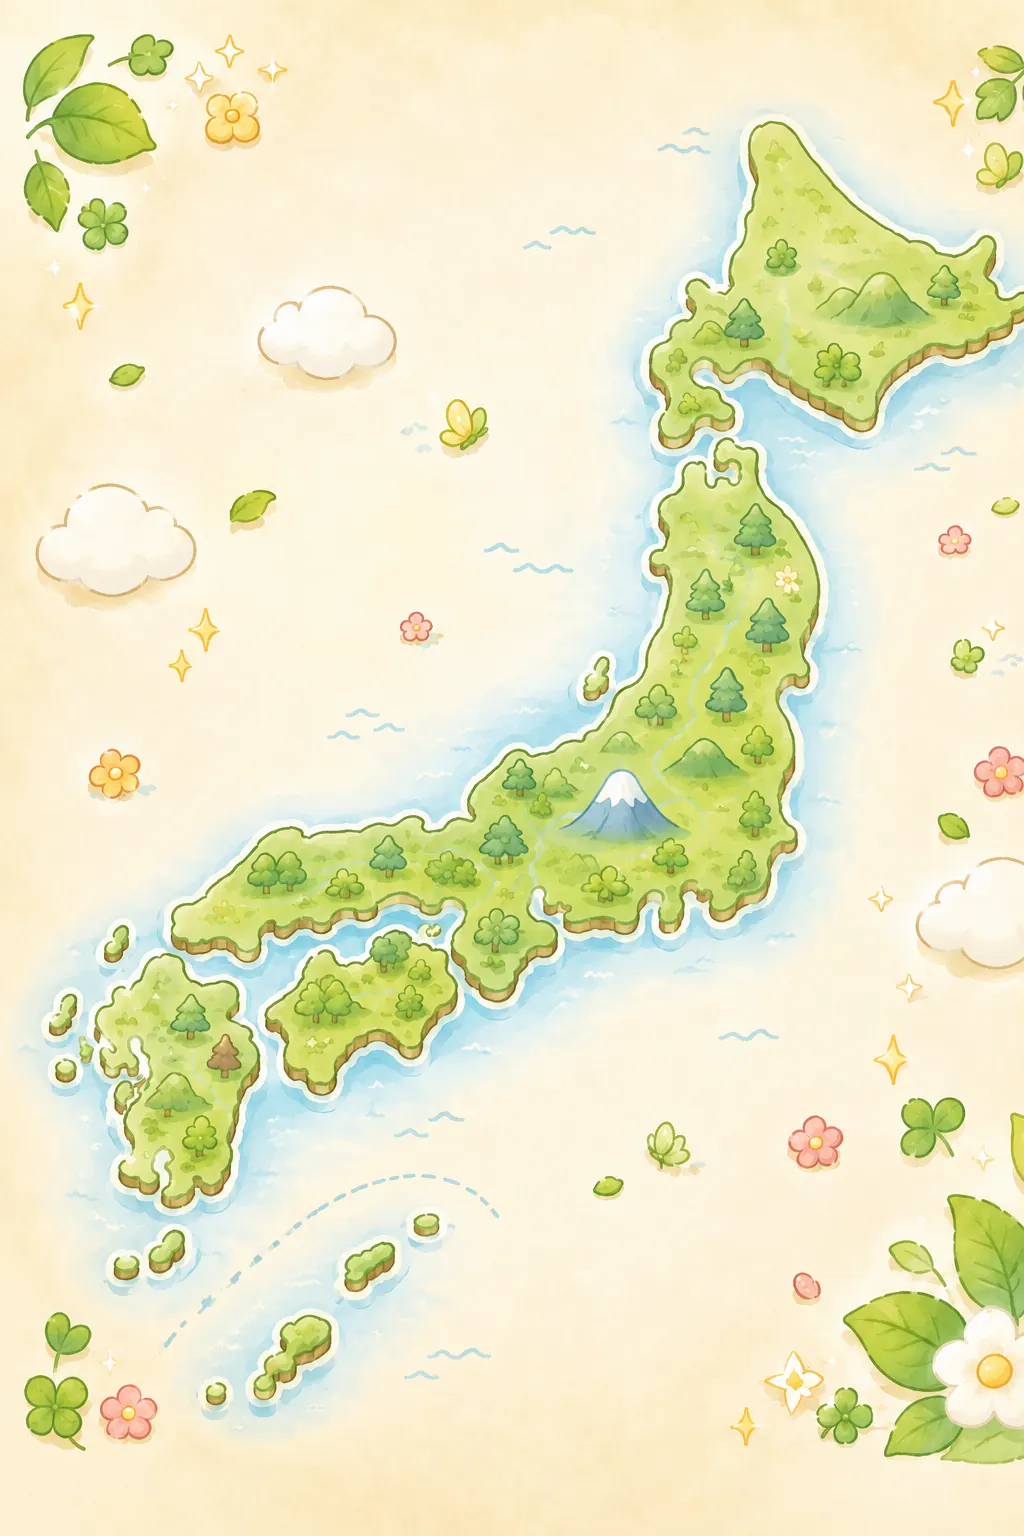
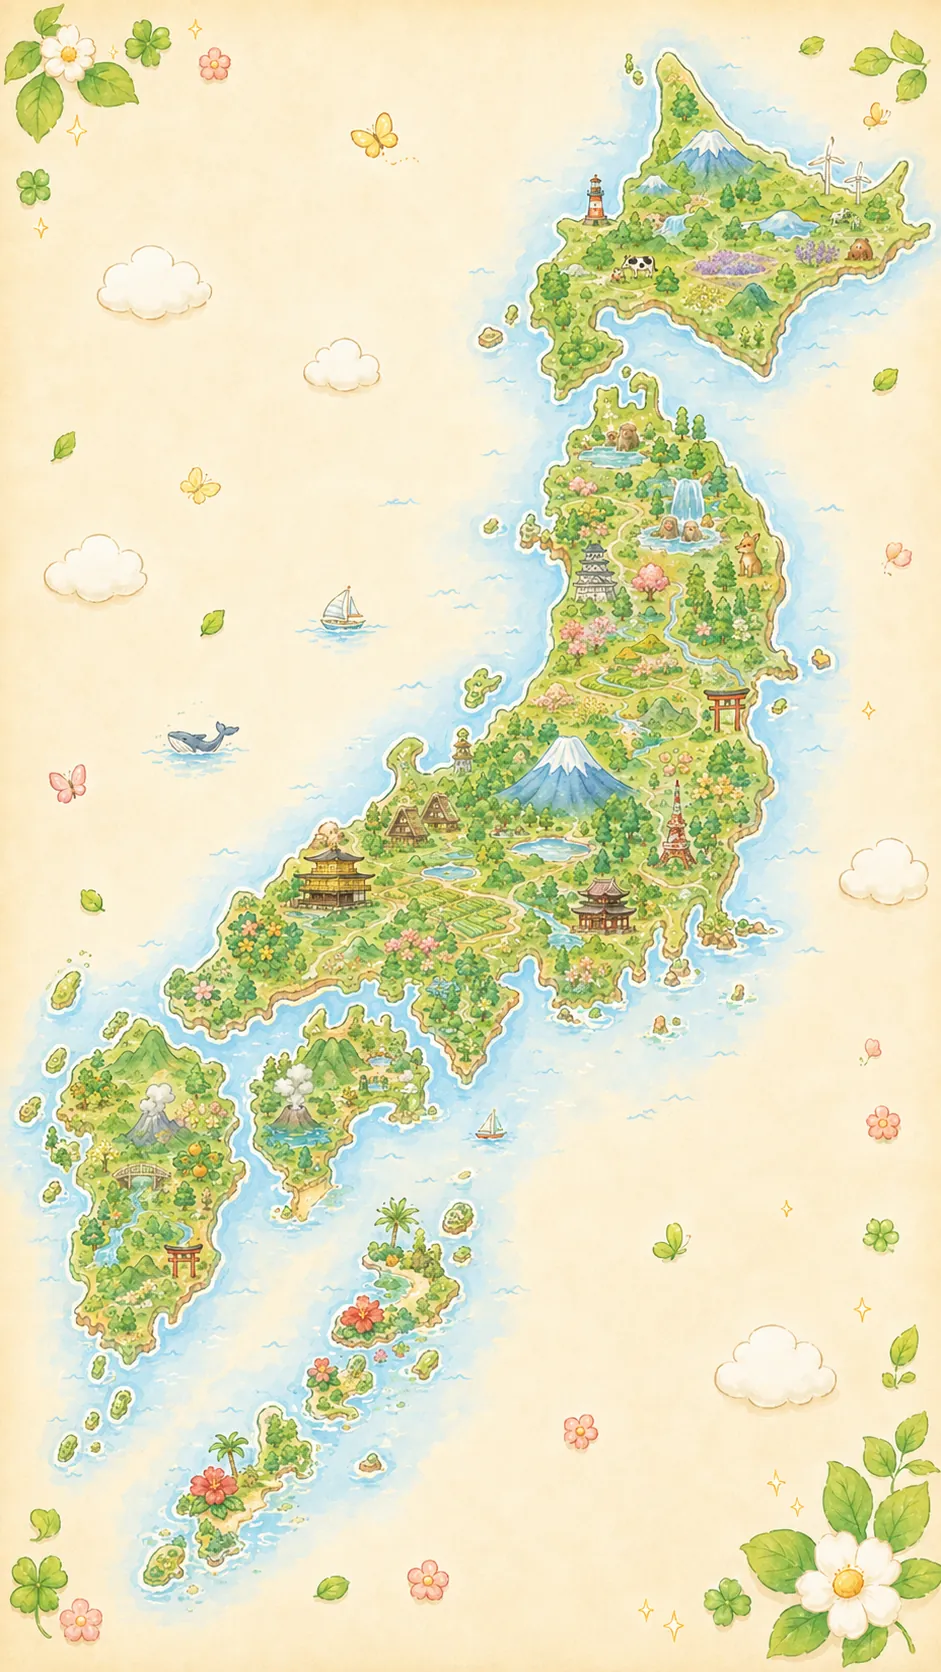
おもいでマップの 日本地図を あたらしい えに（v136）
・いただいた 水彩(すいさい)の 日本地図(にほんちず)に さしかえ
・海岸線(かいがんせん)が しっかり かかれて いる ので、ピンの いちを
  やり直(なお)した。やりかた：
  - みどりの りく と あおい うみ を コンピューターに 見(み)わけさせて
  - 宗谷岬・納沙布岬・大間崎・能登の先・犬吠埼・潮岬・下関・室戸岬・
    足摺岬・佐多岬・奄美大島・沖縄本島 の 12か所(しょ)の はしっこを
    じどうで はからせ、東京タワーの えも くわえて 13の め じるしに した
  - ぜんたいを あわせる 式(しき)＋め じるしの まわりを なめらかに 直(なお)す
    のは これまで どおり

たしかめた こと
・札幌 函館 青森 秋田 仙台 新潟 富山 金沢 長野 名古屋 静岡 東京 宇都宮
  京都 大阪 奈良 鳥取 岡山 広島 松山 高知 福岡 大分 熊本 長崎 宮崎
  鹿児島 那覇 の 28の まちを うって、27が 陸(りく)の 上(うえ)、
  のこり1つ（長野）も 富士山の えの 上(うえ)で 陸(りく)
  ぜんぶ 正(ただ)しい 地方(ちほう)に のった
・ズーム／ドラッグ／ピン／ふつうの ちずとの きりかえ、ぜんぶ 動(うご)いた

Claude-Session: https://claude.ai/code/session_0117rxThQ1NyrT7KgAK1ereN

diff --git a/js/app.js b/js/app.js
@@ -2,7 +2,7 @@
 (() => {
   "use strict";
 
-  const APP_VERSION = "v135";
+  const APP_VERSION = "v136";
 
   const $ = (s, e = document) => e.querySelector(s);
   const $$ = (s, e = document) => [...e.querySelectorAll(s)];
@@ -3973,23 +3973,26 @@
      ・そのうえで め じるしの まわりだけ ずれを なおす（きょりの ぎゃく数(すう)で なめらかに）
      という 2だんがまえで ピンの いちを 出(だ)して いる。
      め じるしの ところでは ぴったり、はなれる ほど ゆるやかに なる。*/
-  const JP_W = 1024, JP_H = 1536;              // め じるしを きめた ときの え の おおきさ
-  const JP_AX = [62.06947, -17.26423, -7322.5611];   // x = a*けいど + b*いど + c
-  const JP_AY = [1.89216, -66.76513, 2939.8845];     // y = a*けいど + b*いど + c
-  /* [いど, けいど, xの のこり, yの のこり] */
+  const JP_W = 941, JP_H = 1672;               // め じるしを きめた ときの え の おおきさ
+  const JP_AX = [64.711730, -25.099729, -7452.7779];   // x = a*けいど + b*いど + c
+  const JP_AY = [0.893974, -80.756311, 3635.9111];     // y = a*けいど + b*いど + c
+  /* [いど, けいど, xの のこり, yの のこり]
+     め じるしは、え の 中(なか)の 海岸線(かいがんせん)の はしっこを
+     コンピューターに はからせて きめた（岬(みさき)や 島(しま)の 先(さき)）。*/
   const JP_FIX = [
-    [45.52, 141.94,  58, -51],   // 宗谷岬
-    [43.39, 145.82,  23, -14],   // 納沙布岬
-    [41.55, 140.91,  29,  20],   // 大間崎
-    [37.90, 139.02,   0,  27],   // 新潟
-    [36.56, 136.66,  -9,  37],   // 金沢
-    [35.69, 139.69, -22,  31],   // 東京
-    [35.36, 138.73, -70, -72],   // 富士山
-    [33.95, 130.94, -41, -18],   // 下関
-    [33.70, 133.50, -12,  67],   // 四国
-    [33.59, 130.40, -39, -16],   // 福岡
-    [31.03, 130.67, -67,  70],   // 佐多岬
-    [26.21, 127.68, 150, -82],   // 那覇
+    [45.52, 141.94,   66,  -19],   // 宗谷岬
+    [43.39, 145.82,   10,  -20],   // 納沙布岬
+    [41.55, 140.91,  -13,  -21],   // 大間崎
+    [37.51, 137.34,  -22,  -30],   // 能登半島の 先
+    [35.71, 140.87,    7,   51],   // 犬吠埼
+    [35.66, 139.75,  -24,  -19],   // 東京タワー
+    [33.95, 130.94,   -5,  -21],   // 下関
+    [33.44, 135.76,   15,  -43],   // 潮岬
+    [33.24, 134.18,  -51,   72],   // 室戸岬
+    [32.72, 133.02,  -46,  102],   // 足摺岬
+    [31.03, 130.67, -123,  132],   // 佐多岬
+    [28.32, 129.50,  161, -116],   // 奄美大島
+    [26.50, 127.98,   25,  -68],   // 沖縄本島
   ];
   // え の うえの いち（え の ピクセル）。にほんの そとは null
   function jpPoint(lat, lng) {

diff --git a/service-worker.js b/service-worker.js
@@ -1,5 +1,5 @@
 /* むしずかん — サービスワーカー（オフラインでも つかえる／あたらしい ばんに すぐ なる）*/
-const CACHE = "mushizukan-v135";
+const CACHE = "mushizukan-v136";
 /* ちずの タイルは バージョンを 上(あ)げても すてない（ためた ぶんが むだに ならない）*/
 const TILES = "mushizukan-tiles";
 const TILE_HOST = "https://tile.openstreetmap.org/";
